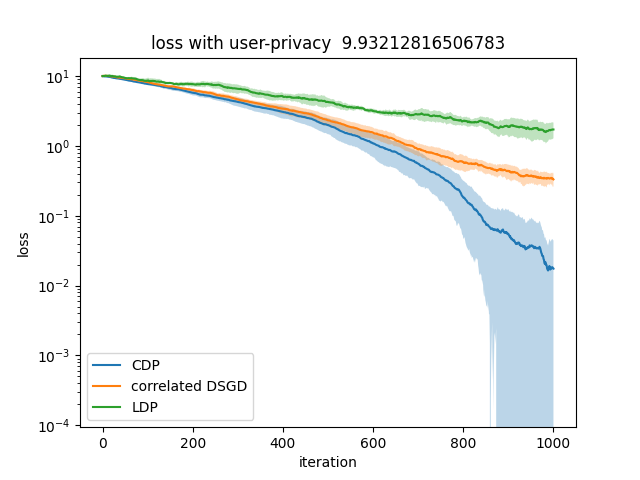
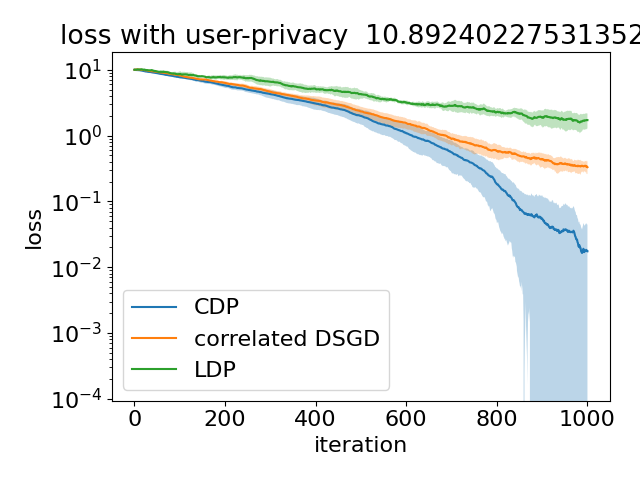
some plots

diff --git a/utils/plotting.py b/utils/plotting.py
@@ -6,7 +6,7 @@ import pandas as pd
 
 
 # Function to plot threee losses: LDP, CD-SGD and CDP
-def plot_comparison_loss(A, B, gamma, num_nodes, num_dim, sigma_cdp, sigma_cor, c_clip, num_gossip=1, num_iter = 1000, delta = 1e-4, seed = 1):
+def plot_comparison_loss(A, B, gamma, num_nodes, num_dim, sigma_cdp, sigma_cor, c_clip, num_gossip=1, num_iter = 1500, delta = 1e-5):
     """
     This function plots the comparison between CDP, CD-SGD and LDP
     Args:
@@ -36,7 +36,7 @@ def plot_comparison_loss(A, B, gamma, num_nodes, num_dim, sigma_cdp, sigma_cor, 
     eps = dp_account.rdp_compose_convert(num_iter, eps_rdp_iteration, delta)
     
     # fixing the seed
-    tools.fix_seed(seed)
+    tools.fix_seed(1)
 
     # Learning
     sigma_ldp = c_clip * np.sqrt(2/eps_rdp_iteration)
@@ -53,10 +53,10 @@ def plot_comparison_loss(A, B, gamma, num_nodes, num_dim, sigma_cdp, sigma_cor, 
     ax.set_title(f"loss with user-privacy  {eps}")
     ax.legend()
     
-    folder_path = './comparison_losses'
+    folder_path = './grid_search'
     if not os.path.exists(folder_path):
         os.makedirs(folder_path)
-    plt.savefig('comparison_losses/loss-n_{}-d_{}-lr_{}-clip_{}-sigmacdp_{}-sigmacor_{}-sigmaldp_{}-seed_{}.png'.format(num_nodes, num_dim, gamma, c_clip, round(sigma_cdp, 2) , round(sigma_cor, 2), round(sigma_ldp, 2), seed))
+    plt.savefig('grid_search/loss-n_{}-d_{}-lr_{}-clip_{}-sigmacdp_{}-sigmacor_{}-sigmaldp_{}-delta_{}.png'.format(num_nodes, num_dim, gamma, c_clip, round(sigma_cdp, 2) , round(sigma_cor, 2), round(sigma_ldp, 2), delta))
 
 
 # Binary search for 'sigma_cor' in a grid 'sigma_cor_grid' such that the privacy is close close to the target 'eps_taget'
@@ -136,6 +136,7 @@ def find_best_params(A, B, num_nodes, num_dim, gamma_grid, c_clip_grid, max_loss
             result (Pandas.DataFrame)
 
     """
+    tools.fix_seed(1) # for reproducibility
     X = np.ones(shape=(num_dim, num_nodes))
     W_ring = topology.FixedMixingMatrix("ring", num_nodes)
     W_centr = topology.FixedMixingMatrix("centralized", num_nodes)
@@ -181,7 +182,7 @@ def find_best_params(A, B, num_nodes, num_dim, gamma_grid, c_clip_grid, max_loss
                         errors_centr, _ = optimizers.optimize_decentralized_correlated(X, W_centr, A, B, gamma, sigma_cdp, sigma_cor, c_clip, num_gossip=num_gossip, num_iter=num_iter)
                         errors_cor, _ = optimizers.optimize_decentralized_correlated(X, W_ring, A, B, gamma, sigma_cdp, sigma_cor, c_clip, num_gossip=num_gossip, num_iter=num_iter)
 
-                        if errors_centr[-1] <= max_loss and result["loss_cor"].iloc[-1] - np.mean(errors_cor[800:]) > 0:
+                        if min(errors_centr) <= max_loss: # and result["loss_cor"].iloc[-1] - np.mean(errors_cor[800:]) > 0:
                             eps_iter = dp_account.rdp_account(sigma_cdp, sigma_cor, c_clip, degree_matrix, adjacency_matrix)
                             new_row = {"gamma": gamma, 
                                        "c_clip": c_clip,
@@ -244,7 +245,7 @@ def plot_sigmacor_loss(A, B, sigma_cdp= 0.1, c_clip=1, lr=0.1, num_gossip=1, num
     # plt.show()
 
 # Plotting comparison of losses with confidence interval
-def plot_comparison_loss_CI(A, B, gamma, num_nodes, num_dim, sigma_cdp, sigma_cor, c_clip, num_gossip=1, num_iter = 1000, delta = 1e-4, seeds= [1, 2, 3, 4, 5]):
+def plot_comparison_loss_CI(A, B, gamma, num_nodes, num_dim, sigma_cdp, sigma_cor, c_clip, num_gossip=1, num_iter = 1000, delta = 1e-4, seeds= [1, 2, 3, 5]):
 
 
     X = np.ones(shape=(num_dim, num_nodes))
@@ -280,10 +281,10 @@ def plot_comparison_loss_CI(A, B, gamma, num_nodes, num_dim, sigma_cdp, sigma_co
     ax.fill_between(t, np.mean(errors_ldp, axis = 0) - np.std(errors_ldp, axis = 0), np.mean(errors_ldp, axis = 0) + np.std(errors_ldp, axis = 0), alpha = 0.3)
     ax.set_xlabel('iteration')
     ax.set_ylabel('loss')
-    ax.set_title(f"loss with user-privacy  {eps}")
+    ax.set_title(f"loss with user-privacy  {round(eps)}")
     ax.legend()
     
     folder_path = './comparison_losses_CI'
     if not os.path.exists(folder_path):
         os.makedirs(folder_path)
-    plt.savefig('comparison_losses_CI/loss-n_{}-d_{}-lr_{}-clip_{}-sigmacdp_{}-sigmacor_{}-sigmaldp_{}.png'.format(num_nodes, num_dim, gamma, c_clip, round(sigma_cdp, 2) , round(sigma_cor, 2), round(sigma_ldp, 2)))
+    plt.savefig('comparison_losses_CI/loss-n_{}-d_{}-lr_{}-clip_{}-sigmacdp_{}-sigmacor_{}-sigmaldp_{}-delta_{}.png'.format(num_nodes, num_dim, gamma, c_clip, round(sigma_cdp, 2) , round(sigma_cor, 2), round(sigma_ldp, 2), delta))

diff --git a/search_best_params.py b/search_best_params.py
@@ -6,20 +6,20 @@ from utils import plotting
 
 if __name__ == "__main__":
     params = {
-            "gamma_grid": np.logspace(-4, -2, 6),
+            "gamma_grid": [4e-3],
             "num_nodes": 64,
             "num_dim": 10,
-            "c_clip_grid":np.linspace(1, 10, 10),
+            "c_clip_grid":[1],
             "target_eps": 10,
             "max_loss": 1e-2,
-            "num_iter": 1000,
+            "num_iter": 1500,
             "num_gossip": 1,
-            "delta": 1e-4
+            "delta": 1e-5
         }
         
     A, B = generate_functions(params["num_nodes"], params["num_dim"], zeta = 0)
     result = plotting.find_best_params(A, B, **params)
-    filename= "result_grid.csv"
+    filename= f"result_grid_epsilon_{params['target_eps']}.csv"
     result.to_csv(filename)
     df = pd.read_csv(filename)
     # Plotting results
@@ -30,4 +30,4 @@ if __name__ == "__main__":
         c_clip = row["c_clip"]
         sigma_cdp = row['sigma_cdp']
         sigma_cor = row['sigma_cor']
-        plotting.plot_comparison_loss(A, B, gamma, 64, 10, sigma_cdp, sigma_cor, c_clip)
+        plotting.plot_comparison_loss(A, B, gamma, params["num_nodes"], params["num_dim"], sigma_cdp, sigma_cor, c_clip)

diff --git a/quadratics.py b/quadratics.py
@@ -10,19 +10,19 @@ from utils import plotting, dp_account
 if __name__ == "__main__":
     
     params = {
-        "gamma": 3.981e-3,
+        "gamma": 3.9e-3,
         "num_nodes": 64,
         "num_dim": 10,
-        "sigma_cdp":12.44,
-        "sigma_cor": 44.31,
-        "c_clip":1,
-        "num_iter": 1000,
+        "sigma_cdp":0.8,
+        "sigma_cor": 100,
+        "c_clip":1.0,
+        "num_iter": 1500,
         "num_gossip": 1,
-        "delta": 1e-4
+        "delta": 1e-5
     }
 
     
-    A, B = generate_functions(64, 10, zeta = 0)
+    A, B = generate_functions(params["num_nodes"], params["num_dim"], zeta = 0)
     plotting.plot_comparison_loss_CI(A, B, **params)
 
     

diff --git a/train.py b/train.py
@@ -288,7 +288,7 @@ with utils.Context("training", "info"):
         # Evaluate the model if milestone is reached
         milestone_evaluation = args.evaluation_delta > 0 and current_step % args.evaluation_delta == 0        
         if milestone_evaluation:
-            mean_accuracy = np.mean(workers[i].compute_accuracy() for i in range(args.num_nodes))
+            mean_accuracy = np.mean([workers[i].compute_accuracy() for i in range(args.num_nodes)])
             print(f"Mean Accuracy (step {current_step})... {mean_accuracy * 100.:.2f}%.")
             # Store the evaluation result
             if fd_eval is not None:
